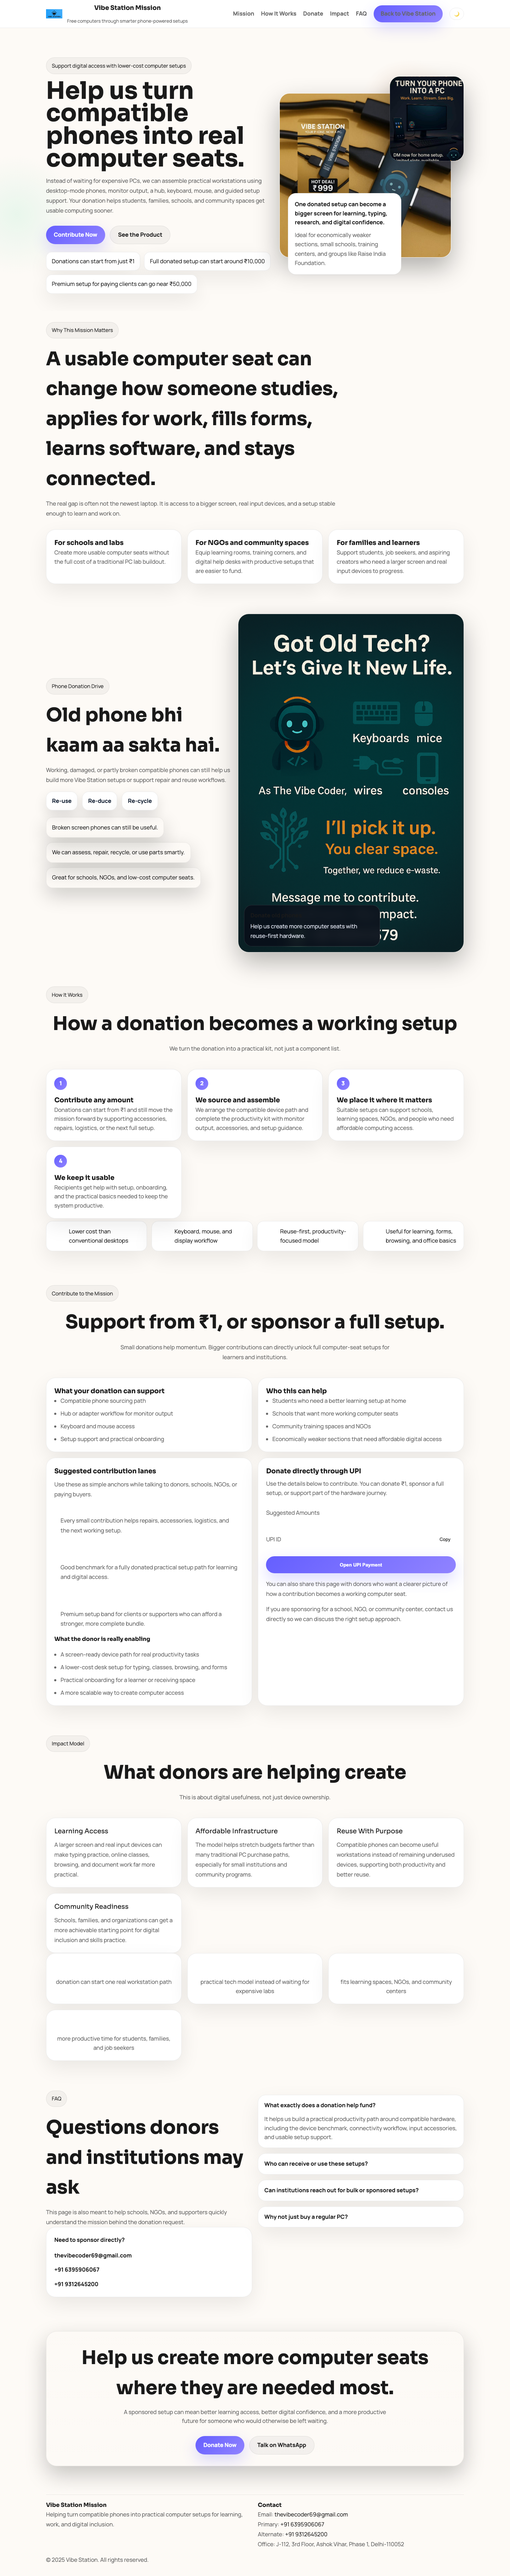
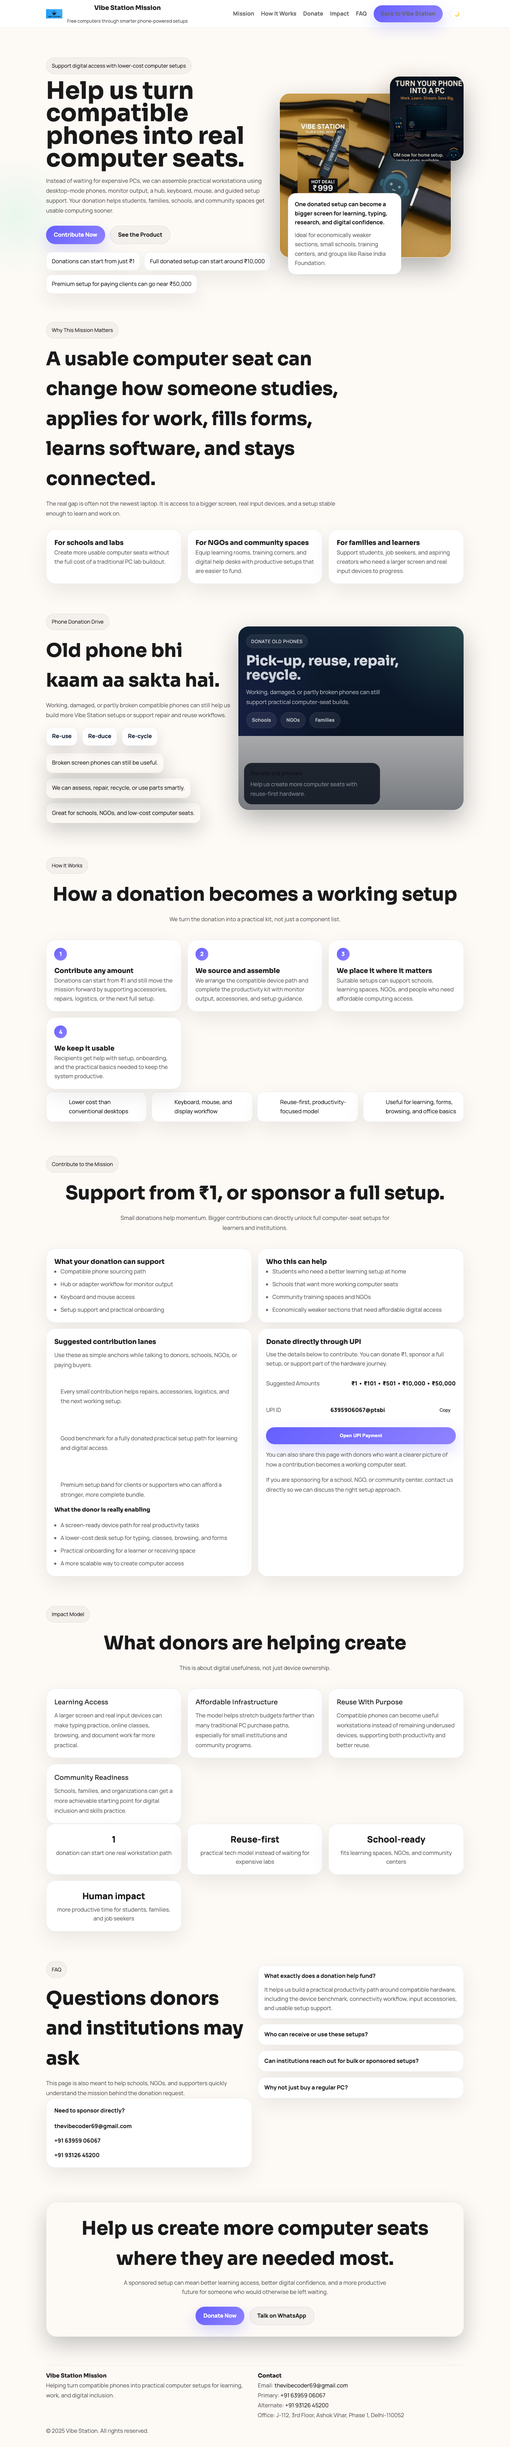
updates according to visual qa

diff --git a/web-design-pricing.html b/web-design-pricing.html
@@ -16,7 +16,7 @@
       --surface-soft: rgba(0, 0, 0, 0.04);
       --line: rgba(0, 0, 0, 0.08);
       --text: #1a1a1a;
-      --muted: #666666;
+      --muted: #4b5563;
       --accent: #0055ff;
       --accent-2: #f18b4d;
       --accent-3: #7be4b2;
@@ -148,10 +148,11 @@
       flex-wrap: wrap;
       gap: 1.2rem;
       font-weight: 600;
+      font-size: 0.96rem;
     }
 
     .nav-links a {
-      color: var(--muted);
+      color: #374151;
     }
 
     .nav-links a:hover {
@@ -328,9 +329,9 @@
       align-items: center;
       padding: 0.5rem 0.85rem;
       border-radius: 999px;
-      background: var(--surface-soft);
-      border: 1px solid var(--accent-3);
-      color: var(--accent-3);
+      background: rgba(123, 228, 178, 0.14);
+      border: 1px solid rgba(35, 112, 78, 0.2);
+      color: #1f6a47;
       font-weight: 700;
       margin-bottom: 0.9rem;
     }
@@ -361,10 +362,11 @@
     .mini-grid span {
       padding: 0.8rem 0.9rem;
       border-radius: 18px;
-      background: var(--surface-soft);
-      border: 1px solid var(--line);
-      color: var(--text);
+      background: rgba(17, 24, 39, 0.04);
+      border: 1px solid rgba(17, 24, 39, 0.12);
+      color: #243244;
       font-size: 0.92rem;
+      font-weight: 700;
     }
 
     .sample-links,
@@ -412,63 +414,70 @@
     .showcase-card {
       position: relative;
       overflow: hidden;
-      min-height: 260px;
-      background-size: cover;
-      background-position: top center;
-      background-image: var(--shot);
+      min-height: 380px;
+      display: grid;
+      grid-template-rows: 160px 1fr;
+      background: var(--surface);
+    }
+
+    .showcase-card::before {
+      content: "";
+      display: block;
+      background:
+        radial-gradient(circle at top right, rgba(123, 228, 178, 0.34), transparent 28%),
+        radial-gradient(circle at bottom left, rgba(5, 85, 255, 0.28), transparent 34%),
+        linear-gradient(135deg, rgba(5, 11, 22, 0.94), rgba(20, 32, 58, 0.92));
+      border-bottom: 1px solid var(--line);
     }
 
     .showcase-card::after {
       content: "";
       position: absolute;
-      inset: 0;
+      inset: 0 auto auto 0;
+      width: 100%;
+      height: 160px;
       background:
-        linear-gradient(180deg, rgba(5, 11, 22, 0.14) 0%, rgba(5, 11, 22, 0.92) 100%),
-        linear-gradient(120deg, rgba(7, 24, 51, 0.25), rgba(12, 14, 28, 0.18));
+        linear-gradient(180deg, rgba(5, 11, 22, 0.1) 0%, rgba(5, 11, 22, 0.45) 100%);
       pointer-events: none;
     }
 
     [data-theme="dark"] .showcase-card::after {
-      background: linear-gradient(180deg, rgba(5, 11, 22, 0.05), rgba(5, 11, 22, 0.82));
+      background: linear-gradient(180deg, rgba(5, 11, 22, 0.08), rgba(5, 11, 22, 0.54));
     }
 
     .showcase-card-content {
       position: relative;
       z-index: 1;
-      height: 100%;
+      height: auto;
       display: flex;
       flex-direction: column;
-      justify-content: flex-end;
+      justify-content: space-between;
       gap: 0.55rem;
       padding: 1.35rem;
-      background: linear-gradient(180deg, rgba(5, 11, 22, 0) 12%, rgba(5, 11, 22, 0.72) 48%, rgba(5, 11, 22, 0.94) 100%);
+      background: var(--surface);
     }
 
     .showcase-card-content span {
-      color: #fff;
+      color: #335eea;
       font-size: 0.82rem;
       text-transform: uppercase;
       letter-spacing: 0.16em;
-      text-shadow: 0 2px 10px rgba(0, 0, 0, 0.45);
     }
 
     .showcase-card-content h3 {
-      color: #fff;
-      text-shadow: 0 3px 16px rgba(0, 0, 0, 0.5);
+      color: var(--text);
     }
 
     .showcase-card-content p {
-      color: rgba(255, 255, 255, 0.9);
+      color: var(--muted);
       line-height: 1.7;
-      max-width: 28rem;
-      text-shadow: 0 2px 10px rgba(0, 0, 0, 0.45);
+      max-width: none;
     }
 
     .showcase-card .link-pair a {
-      background: rgba(5, 11, 22, 0.82);
-      backdrop-filter: blur(12px);
-      color: #fff;
-      border: 1px solid rgba(255, 255, 255, 0.28);
+      background: rgba(5, 85, 255, 0.08);
+      color: #173fb6;
+      border: 1px solid rgba(23, 63, 182, 0.14);
     }
 
     .reference-item strong {
@@ -510,11 +519,13 @@
     .contact-lines a {
       color: var(--accent);
       font-weight: 700;
+      font-size: 1rem;
     }
 
     .page-footer {
       padding: 1rem 0 3rem;
-      color: var(--muted);
+      color: #374151;
+      font-size: 0.98rem;
     }
 
     .page-footer .container {

diff --git a/the-vibe-coder.html b/the-vibe-coder.html
@@ -64,7 +64,7 @@
 
         .services-grid {
             display: grid;
-            grid-template-columns: repeat(auto-fill, minmax(280px, 1fr));
+            grid-template-columns: repeat(2, minmax(0, 1fr));
             gap: 24px;
             margin-top: 60px;
         }
@@ -126,47 +126,20 @@
             color: var(--text);
         }
 
-        .fixed-whatsapp {
-            display: none;
-            position: fixed;
-            bottom: 24px;
-            right: 24px;
-            z-index: 1000;
-            background: #25D366;
-            color: white;
-            padding: 14px 20px;
-            border-radius: 999px;
-            font-weight: 700;
-            display: flex;
-            align-items: center;
-            gap: 12px;
-            box-shadow: 0 10px 30px rgba(37, 211, 102, 0.4);
-            transition: all 0.3s ease;
-        }
-
-        .fixed-whatsapp:hover {
-            transform: translateY(-4px) scale(1.02);
-            box-shadow: 0 15px 40px rgba(37, 211, 102, 0.5);
-            opacity: 1;
-        }
-
         @media (max-width: 992px) {
             .vibe-content {
                 grid-template-columns: 1fr;
                 gap: 40px;
+            }
+
+            .services-grid {
+                grid-template-columns: 1fr;
             }
         }
 
         @media (max-width: 768px) {
             .vibe-title {
                 font-size: 3.5rem;
-            }
-            .fixed-whatsapp {
-                display: flex;
-                bottom: 16px;
-                right: 16px;
-                padding: 12px 18px;
-                font-size: 0.88rem;
             }
         }
     </style>
@@ -274,12 +247,5 @@
             <p style="font-size: 0.8rem; color: #333;">&copy; 2026 The Vibe Coder. All rights reserved.</p>
         </div>
     </footer>
-
-    <a href="https://wa.me/916395906067?text=Hi%2C%20I%20want%20to%20know%20more%20about%20The%20Vibe%20Coder%20services." class="fixed-whatsapp" target="_blank">
-        <svg xmlns="http://www.w3.org/2000/svg" width="24" height="24" viewBox="0 0 24 24" fill="currentColor">
-            <path d="M17.472 14.382c-.297-.149-1.758-.867-2.03-.967-.273-.099-.471-.148-.67.15-.197.297-.767.966-.94 1.164-.173.199-.347.223-.644.075-.297-.15-1.255-.463-2.39-1.475-.883-.788-1.48-1.761-1.653-2.059-.173-.297-.018-.458.13-.606.134-.133.298-.347.446-.52.149-.174.198-.298.298-.497.099-.198.05-.371-.025-.52-.075-.149-.669-1.612-.916-2.207-.242-.579-.487-.5-.669-.51-.173-.008-.371-.01-.57-.01-.198 0-.52.074-.792.372-.272.297-1.04 1.016-1.04 2.479 0 1.462 1.065 2.875 1.213 3.074.149.198 2.096 3.2 5.077 4.487.709.306 1.262.489 1.694.625.712.227 1.36.195 1.871.118.571-.085 1.758-.719 2.006-1.413.248-.694.248-1.289.173-1.413-.074-.124-.272-.198-.57-.347m-5.421 7.403h-.004a9.87 9.87 0 01-5.031-1.378l-.361-.214-3.741.982.998-3.648-.235-.374a9.86 9.86 0 01-1.51-5.26c.001-5.45 4.436-9.884 9.888-9.884 2.64 0 5.122 1.03 6.988 2.898a9.825 9.825 0 012.893 6.994c-.003 5.45-4.437 9.884-9.885 9.884m8.413-18.297A11.815 11.815 0 0012.05 0C5.495 0 .16 5.335.157 11.892c0 2.096.547 4.142 1.588 5.945L.057 24l6.305-1.654a11.882 11.882 0 005.683 1.448h.005c6.554 0 11.89-5.335 11.893-11.893a11.821 11.821 0 00-3.48-8.413z"/>
-        </svg>
-        WhatsApp
-    </a>
 </body>
 </html>

diff --git a/assets/css/donate-site.css b/assets/css/donate-site.css
@@ -142,7 +142,7 @@ h4,
 
 .tagline {
   display: block;
-  color: var(--muted);
+  color: color-mix(in srgb, var(--text) 74%, white 26%);
   font-size: 0.82rem;
 }
 
@@ -532,11 +532,72 @@ h2 {
   min-height: 520px;
 }
 
+.device-drive-visual::after {
+  content: "";
+  position: absolute;
+  inset: 0;
+  background: linear-gradient(180deg, rgba(7, 16, 28, 0.05) 0%, rgba(7, 16, 28, 0.55) 100%);
+  pointer-events: none;
+}
+
 .device-drive-visual img {
   width: 100%;
   height: 100%;
   object-fit: cover;
   display: block;
+}
+
+.device-drive-graphic {
+  height: 100%;
+  padding: 1.4rem;
+  display: flex;
+  flex-direction: column;
+  justify-content: flex-start;
+  gap: 0.95rem;
+  background:
+    radial-gradient(circle at top right, rgba(123, 228, 178, 0.22), transparent 38%),
+    radial-gradient(circle at bottom left, rgba(101, 95, 255, 0.22), transparent 42%),
+    linear-gradient(180deg, #102034 0%, #0a1526 100%);
+  color: #f5f8ff;
+}
+
+.device-drive-graphic span {
+  display: inline-flex;
+  width: fit-content;
+  padding: 0.5rem 0.85rem;
+  border-radius: 999px;
+  background: rgba(255, 255, 255, 0.08);
+  border: 1px solid rgba(255, 255, 255, 0.12);
+  font-size: 0.8rem;
+  letter-spacing: 0.08em;
+  text-transform: uppercase;
+}
+
+.device-drive-graphic strong {
+  font-family: "Sora", sans-serif;
+  font-size: clamp(1.6rem, 2.8vw, 2.4rem);
+  line-height: 1.05;
+}
+
+.device-drive-graphic p {
+  max-width: 26rem;
+  color: rgba(245, 248, 255, 0.82);
+  line-height: 1.7;
+}
+
+.device-drive-tags {
+  margin-top: auto;
+  display: flex;
+  flex-wrap: wrap;
+  gap: 0.7rem;
+}
+
+.device-drive-tags b {
+  padding: 0.65rem 0.95rem;
+  border-radius: 999px;
+  background: rgba(255, 255, 255, 0.1);
+  border: 1px solid rgba(255, 255, 255, 0.14);
+  font-size: 0.86rem;
 }
 
 .device-drive-stamp {
@@ -658,7 +719,7 @@ h2 {
 .upi-detail .value,
 .info-row .value,
 .stat-number {
-  color: #fff;
+  color: var(--text);
   font-weight: 800;
 }
 
@@ -805,6 +866,10 @@ h2 {
 
 [data-theme="dark"] .device-drive-points span,
 [data-theme="dark"] .copy-btn,
+[data-theme="dark"] .amount-display .value,
+[data-theme="dark"] .upi-detail .value,
+[data-theme="dark"] .info-row .value,
+[data-theme="dark"] .stat-number,
 [data-theme="dark"] .contact-box a,
 [data-theme="dark"] .footer-section a {
   color: #fff;

diff --git a/donate.html b/donate.html
@@ -123,7 +123,16 @@
             </div>
           </div>
           <div class="device-drive-visual">
-            <img src="images/reduce-e-waste.png" alt="Donate old phones for Vibe Station reuse and recycling">
+            <div class="device-drive-graphic" aria-hidden="true">
+              <span>Donate old phones</span>
+              <strong>Pick-up, reuse, repair, recycle.</strong>
+              <p>Working, damaged, or partly broken phones can still support practical computer-seat builds.</p>
+              <div class="device-drive-tags">
+                <b>Schools</b>
+                <b>NGOs</b>
+                <b>Families</b>
+              </div>
+            </div>
             <div class="device-drive-stamp">
               <strong>Donate old phones</strong>
               <span>Help us create more computer seats with reuse-first hardware.</span>
@@ -330,8 +339,8 @@
             <div class="contact-box">
               <strong>Need to sponsor directly?</strong>
               <a href="mailto:thevibecoder69@gmail.com">thevibecoder69@gmail.com</a>
-              <a href="tel:+916395906067">+91 6395906067</a>
-              <a href="tel:+919312645200">+91 9312645200</a>
+              <a href="tel:+916395906067">+91 63959 06067</a>
+              <a href="tel:+919312645200">+91 93126 45200</a>
             </div>
           </div>
           <div class="faq-list">
@@ -377,8 +386,8 @@
         <div class="footer-section">
           <h4>Contact</h4>
           <p>Email: <a href="mailto:thevibecoder69@gmail.com">thevibecoder69@gmail.com</a></p>
-          <p>Primary: <a href="tel:+916395906067">+91 6395906067</a></p>
-          <p>Alternate: <a href="tel:+919312645200">+91 9312645200</a></p>
+          <p>Primary: <a href="tel:+916395906067">+91 63959 06067</a></p>
+          <p>Alternate: <a href="tel:+919312645200">+91 93126 45200</a></p>
           <p>Office: J-112, 3rd Floor, Ashok Vihar, Phase 1, Delhi-110052</p>
         </div>
       </div>

diff --git a/styles/home-minimal.css b/styles/home-minimal.css
@@ -163,7 +163,7 @@ header .container {
 }
 
 .btn-secondary {
-  border: 1px solid var(--border);
+  border: 1px solid rgba(17, 24, 39, 0.16);
   background-color: var(--card-bg);
   color: var(--text);
 }
